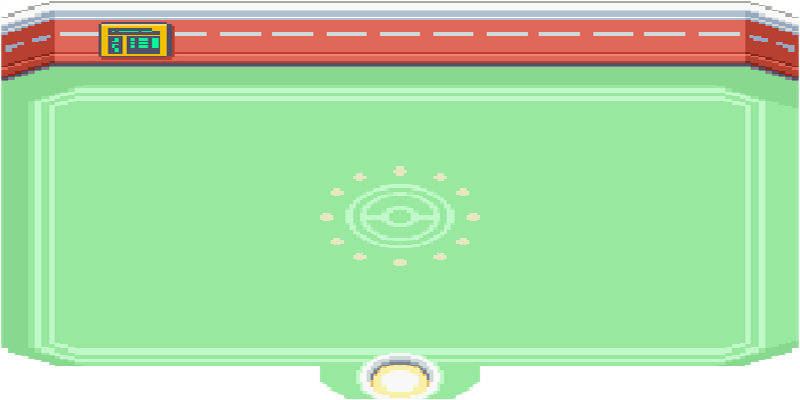
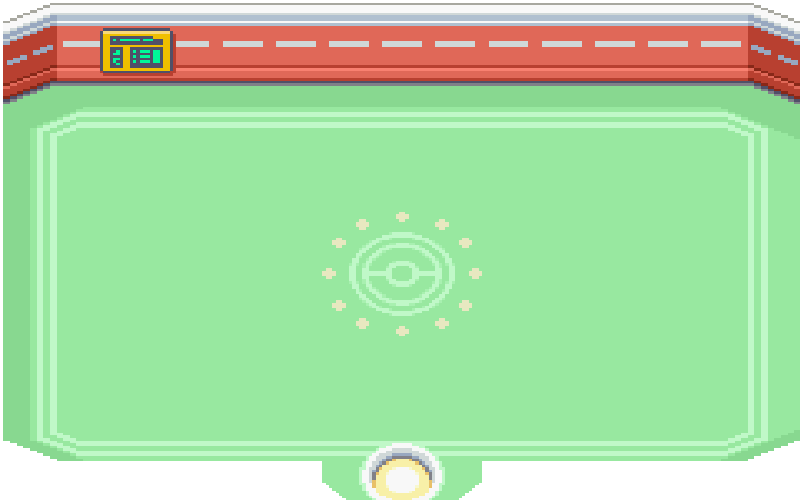
adjusted sizes. moved image loading. multiple sprites can be called.

diff --git a/pokeApp.js b/pokeApp.js
@@ -1,12 +1,11 @@
-var canvas,ctx, sprite; 
-const imagePath = './images/charmanderSprite.png';
+var canvas,ctx, sprite, sprite2; 
+//const imagePath = './images/charmanderSprite.png';
 const atkSprPath= './images/attacks/fireAtkSprite.png';
 const bgPath = './images/pokeArena.png';
 var startTime, currTime, elapsedTime = 0;
 
-var startX = 50,
-	startY = 50,
-	testImage,
+var startX = 120,
+	startY = 240,
 	background;
 
 $(document).ready(function(){
@@ -16,18 +15,16 @@ $(document).ready(function(){
 	canvas = document.getElementById("pokeCanvas");
 	canvas.style.paddingLeft = window.innerWidth/4 + "px";
 	ctx = canvas.getContext("2d");
-	testImage = new Image();
-	testImage.onload = function(){
-	        sprite = new Sprite(testImage, startX, startY);
-		renderField(ctx, sprite, background);
-		main();
-	};
-	testImage.src = imagePath;
+	sprite = new Sprite('charmander', startX, startY);
+	sprite2= new Sprite('squirtle', 590, 240);
+	renderField(ctx, sprite, sprite2, background);
+	main();
 });
 
 function main(){
-	inputHandler(sprite);
-	renderField(ctx, sprite, background);
+	collisionDetect(sprite);
+	input.inputHandler(sprite);
+	renderField(ctx, sprite, sprite2, background);
 	requestAnimFrame(main);
 };
 
@@ -42,26 +39,8 @@ var requestAnimFrame = (function(){
         };
 })();
 
-
-function inputHandler(sprite){
-	if(input.isDown('DOWN')) sprite.update('DOWN');
-	if(input.isDown('UP')) sprite.update('UP');
-	if(input.isDown('LEFT')) sprite.update('LEFT');
-	if(input.isDown('RIGHT')) sprite.update('RIGHT');
-	if(input.isDown('Q') && elapsedTime >= 65){
-                var attackImg = new Image();
-                var moveSprite;
-                attackImg.onload = function(){
-                        moveSprite = new MoveSprite(attackImg, sprite.getX(), sprite.getY());
-			sprite.addAttack(moveSprite);
-		};
-                attackImg.src = atkSprPath;	
-	}
-	sprite.updateAttacks();
-}
-
-function renderField(context, sprite, background){
-	var fps = 17;
+function renderField(context, sprite, sprite2, background){
+	var fps = 16;
 	currTime = Date.now();
 	elapsedTime = currTime - startTime;
 	if( elapsedTime > (1000/fps)){
@@ -69,8 +48,14 @@ function renderField(context, sprite, background){
 		sprite.clearAttacks(context);
 		context.drawImage(background, 0,0);
 		sprite.render(context);
+		sprite2.render(context);
 		sprite.renderAttacks(context);
 		startTime = currTime - (elapsedTime % (1000/fps));
 	}
 	//console.log("Start: " + startTime + " Current: " + currTime + " Elapsed Time: " + elapsedTime);
+}
+
+function collisionDetect(sprite){
+	sprite.checkAttacks();	
+
 }

diff --git a/sprite.js b/sprite.js
@@ -1,16 +1,19 @@
 (function(){ 
-	function Sprite(image, startX, startY){
+	function Sprite(poke, startX, startY){
 		this.frameWidth = 50;
 		this.frameHeight= 50;
-		var currWFrame = 0, currHFrame = 2, pokeSprite = image,
-			x = startX, y = startY, attacks= [];
-		
+		var currWFrame = 0, currHFrame = 0, x = startX, y = startY, 
+			attacks= [], direction = 'RIGHT';
+		var pokeSprite = new Image();
+		pokeSprite.src = './images/pokemon/' + poke + 'Sprite.png';
+
 		this.woof = function(){
 			console.log("Constructer: " + currHFrame);
 		};
 
 /* ** UPDATE FUNCTION ** */
 		this.update = function(dir){
+			direction = dir;
 			switch(dir){
 /* ** Down ** */        	case 'DOWN':
                                 currHFrame = 3;
@@ -62,6 +65,7 @@
 /* ** UPDATE ATKS ** */ 
 		this.updateAttacks = function(){
 			if(attacks.length >0) for(var i = 0; i< attacks.length; i++) attacks[i].update();
+//				console.log("Attack: "+ i + " X: " +attacks[i].getX()+ " Y: " +attacks[i].getY());
 		};
 /* ** CLEAR ATKS ** */
 		this.clearAttacks = function(context){
@@ -73,10 +77,22 @@
 		};
 /* ** ADD ATTACK  ** */
 		this.addAttack = function(moveSprite){	attacks.push(moveSprite); };
+/* ** CHECK ATTACK** */		
+		this.checkAttacks = function(){
+			if(attacks.length >0)
+				for(var i= 0; i< attacks.length; i++)
+					if(attacks[i].getX() < -40 || attacks[i].getX() >800 || 
+						attacks[i].getY() <-40 || attacks[i].getY() > 435) 
+							attacks.splice(i, 1); 				
+		}
 
 /* ** GETTERS ** */
 		this.getX = function(){ return x; }
 		this.getY = function(){ return y; }
+		this.getDirection = function(){ return direction; }
+/* ** PRIVATE ** */
+		//function buildSrc(pokemon){ return './images/' + pokemon + 'Sprite.png'; }
+
 	};
 	
 	Sprite.prototype= {
@@ -89,12 +105,9 @@
 			context.drawImage(this.pict, this.frameWidth * this.currWFrame, this.frameHeight * this.currHFrame, this.frameWidth, this.frameHeight, this.x, this.y, this.frameWidth, this.frameHeight);			
 		},
 		bark: function(){
-			console.log("eh: ");
-			
+			console.log("eh: ");	
 		}
 	};
 
 	window.Sprite = Sprite;
 })();
-
-

diff --git a/moveSprite.js b/moveSprite.js
@@ -1,17 +1,33 @@
 (function(){ 
-	function MoveSprite(image, startX, startY){
+	function MoveSprite(image, startX, startY, dir){
 		this.frameWidth = 40;
-		this.frameHeight= 30;
+		this.frameHeight= 35;
 		var currWFrame = 0, myImage = image,
-			x = startX+ 35, y = startY;
+			x, y, direction = dir;
+		setCoords();
 /* ** UPDATE ** */
 		this.update = function(){
-			x += 2;
 			currWFrame = Math.floor(Math.random() * 2);
+			switch(direction){
+				case 'DOWN':
+				y += 2;
+				break;
+				case 'UP':
+				y -= 2;
+				break;
+				case 'RIGHT':
+				x += 2;
+				break;
+				case 'LEFT':
+				x -= 2;
+				break;
+				default:
+				x+= 2;
+			}
 		};
 /* ** CLEAR  ** */
 		this.clear = function(context){
-			context.clearRect(x-5, y- 5, 40, 30);
+			context.clearRect(x- 10 , y, 50, 50);
 		};
 /* ** RENDER ** */
 		this.render = function(context){
@@ -23,6 +39,35 @@
 					  this.frameWidth, this.frameHeight); 
 			//console.log('drawing: ' + x + ', ' + y + ' image: ' + image.src);
 		};
+
+/* ** GETTERS ** */
+                this.getX = function(){ return x; }
+                this.getY = function(){ return y; }
+
+/* ** PRIVATE ** */		
+		function setCoords(){
+			switch(direction){
+				case 'DOWN':
+                                x = startX + 5.5;
+				y = startY + 30;
+                                break;
+                                case 'UP':
+                                x = startX + 5;
+				y = startY - 20;
+                                break;
+				case 'RIGHT':
+				x = startX + 35;
+				y = startY;
+				break;
+                                case 'LEFT':
+                                x = startX - 25;
+				y = startY; 
+                                break;
+                                default:
+                                x = startX;
+				y = startY;
+			}
+		}
 	};
 
 	window.MoveSprite = MoveSprite;

diff --git a/input.js b/input.js
@@ -19,11 +19,14 @@
         }
 
        	pressedKeys[key] = status;
-}
+    }
+
+    function isDown(key) {
+	return pressedKeys[key.toUpperCase()];
+    }
 
     document.addEventListener('keydown', function(e) {
         getKey(e, true);
-	//console.log("Works");
     });
 
     document.addEventListener('keyup', function(e) {
@@ -35,9 +38,22 @@
     });
 
     window.input = {
-        isDown: function(key) {
-            return pressedKeys[key.toUpperCase()];
-        }
+	inputHandler: function(sprite){
+     		if(isDown('DOWN') && !(isDown('UP') || isDown('LEFT') || isDown('RIGHT'))) sprite.update('DOWN');
+        	if(isDown('UP') && !(isDown('DOWN') || isDown('LEFT') || isDown('RIGHT'))) sprite.update('UP');
+        	if(isDown('LEFT')) sprite.update('LEFT');
+        	if(isDown('RIGHT')) sprite.update('RIGHT');
+        	if(isDown('Q') && elapsedTime >= 65){
+         		var attackImg = new Image();
+               		var moveSprite;
+                	attackImg.onload = function(){
+                       		moveSprite = new MoveSprite(attackImg, sprite.getX(), sprite.getY(), sprite.getDirection());
+                        	sprite.addAttack(moveSprite);
+               		};
+                	attackImg.src = atkSprPath;
+        	}
+        	sprite.updateAttacks();
+	}
     };
 
 //})();

diff --git a/PokeMOBA.html b/PokeMOBA.html
@@ -1,6 +1,7 @@
 <!doctype html>
 <html>
 <head>
+	<meta http-equiv="Cache-control" content="public">
 	<title>Chris Yap's Page of Awesomeness</title>
 	<link rel="stylesheet" type="text/css" href="../main.css">
 	<link rel="stylesheet" type="text/css" href="PokeMOBA.css">
@@ -22,9 +23,9 @@
 	<a id="nav" href="../Canvas/CanvasPlay.html">Canvas Play</a>
 	<a id="nav" href="PokeMOBA.html" class = "active">Poke MOBA</a>
 	<hr>
-	<div id = "mainContainer">
+	<div id = "mainPokeContainer">
 		<div id= "canvasContainer"> 
-			<canvas id = "pokeCanvas" height = 400 width = 800></canvas>
+			<canvas id = "pokeCanvas" height = 500 width = 800></canvas>
 		</div>
 	</div>
 	<hr>

diff --git a/PokeMOBA.css b/PokeMOBA.css
@@ -5,3 +5,7 @@
 }
 
 */
+
+#mainPokeContainer{
+ height: 500px;
+}
